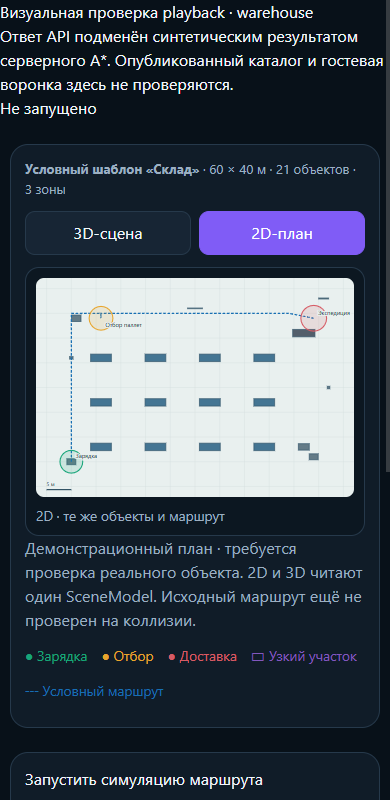
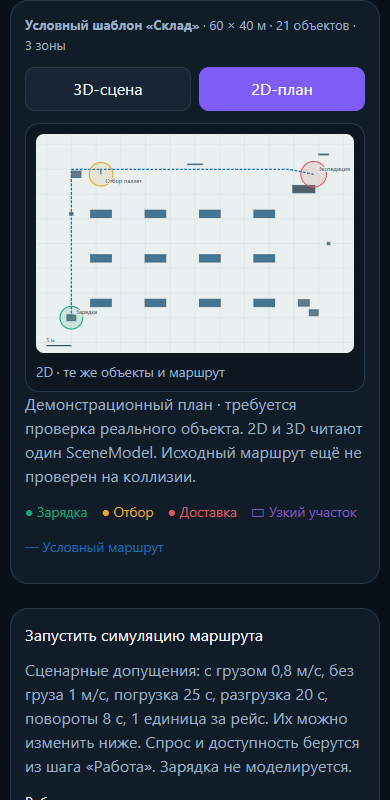
Verify mobile scene playback and expose camera controls

diff --git a/frontend/src/index.css b/frontend/src/index.css
@@ -1305,7 +1305,7 @@ button:disabled { cursor: not-allowed; }
   .scene-preview-mobile-switch button { flex: 1; }
   .scene-preview-grid[data-mobile-view="2d"] .scene-preview-hero, .scene-preview-grid[data-mobile-view="3d"] .scene-preview-plan { display: none; }
   .scene-preview-canvas { height: clamp(290px, 70vw, 420px); min-height: 0; }
-  .scene-preview-camera { overflow-x: auto; flex-wrap: nowrap; }
+  .scene-preview-camera { flex-wrap: wrap; }
   .scene-preview-camera button { white-space: nowrap; }
   .scene-sim-fields { grid-template-columns: repeat(2, minmax(0, 1fr)); }
   .investment-chart-row { grid-template-columns: 1.4rem minmax(0, 1fr) minmax(4rem, 6rem); }

diff --git a/docs/recovery-v2/capture_mobile.py b/docs/recovery-v2/capture_mobile.py
@@ -9,8 +9,10 @@ import requests
 import websocket
 
 OUT = Path(__file__).resolve().parent / 'evidence'
-page = next(item for item in requests.get('http://127.0.0.1:9225/json/list', timeout=5).json()
-            if item.get('type') == 'page')
+pages = requests.get('http://127.0.0.1:9225/json/list', timeout=5).json()
+page = next((item for item in pages if item.get('type') == 'page'
+             and '/qa/recovery/index.html' in item.get('url', '')),
+            next(item for item in pages if item.get('type') == 'page'))
 ws = websocket.create_connection(page['webSocketDebuggerUrl'], timeout=20, suppress_origin=True)
 index = 0
 
@@ -68,10 +70,29 @@ try:
         call('Page.navigate', {'url': 'http://127.0.0.1:4175/qa/recovery/index.html?kind=warehouse'})
         ready("document.querySelector('[data-glb-status]')?.dataset.glbStatus==='READY'", 'scene preview')
         no_page_overflow(f'scene {width}')
+        evaluate("document.querySelector('.scene-preview')?.scrollIntoView({block:'start'})")
+        time.sleep(.2)
         save(f'mobile-{width}-scene-3d.png')
         evaluate("document.querySelector('.scene-preview-mobile-switch button:last-child').click()")
         ready("document.querySelector('.scene-preview-grid')?.dataset.mobileView==='2d'", 'scene 2D switch')
         save(f'mobile-{width}-scene-2d.png')
+        evaluate("document.querySelector('.scene-sim-controls button[type=submit]').click()")
+        ready("Boolean(document.querySelector('.scene-playback-controls'))", 'scene playback')
+        start_pose = evaluate("document.querySelector('#recovery-pose')?.textContent")
+        time.sleep(1)
+        end_pose = evaluate("document.querySelector('#recovery-pose')?.textContent")
+        if not start_pose or start_pose == end_pose:
+            raise RuntimeError(f'scene playback {width}: robot did not move')
+        no_page_overflow(f'scene playback {width}')
+        save(f'mobile-{width}-scene-playback.png')
+        evaluate("document.querySelector('.scene-playback-controls')?.scrollIntoView({block:'center'})")
+        time.sleep(.2)
+        save(f'mobile-{width}-scene-controls.png')
+        evaluate("document.querySelector('.scene-playback-controls button').click()")
+        paused_pose = evaluate("document.querySelector('#recovery-pose')?.textContent")
+        time.sleep(.4)
+        if evaluate("document.querySelector('#recovery-pose')?.textContent") != paused_pose:
+            raise RuntimeError(f'scene playback {width}: pause did not hold pose')
         call('Page.navigate', {'url': 'http://127.0.0.1:4175/'})
         ready("Boolean(document.querySelector('#root h1'))", 'main application')
         no_page_overflow(f'main {width}')

diff --git a/docs/recovery-v2/PROGRESS.md b/docs/recovery-v2/PROGRESS.md
@@ -11,7 +11,7 @@
 | R4 | PARTIAL — ART QUALITY | 13 GLB подключены к живому WebGL; тени движутся с роботами. Добавлен крупный ракурс с сопровождением робота. Blender дополнил склад четырьмя воротами и доковым оборудованием, аэропорт четырьмя багажными порталами, лентами и навигацией, клинику дверями кабинетов, поручнями, шкафами и светильниками. `capture_visual.py` теперь снимает 1440×900 со сценой в кадре: движение и пауза всех трёх сцен PASS. GLB tests 3/3 и frontend build PASS. | `evidence/sim-{warehouse,airport,clinic}-after-4s.png` сравнены с тремя JPG из `03_ART_REFERENCES/targets/`. Архитектурная узнаваемость улучшилась, но геометрия, поверхности, свет и компоновка ещё значительно уступают фотореалистичным референсам. Нужны UV/PBR фактуры и проверка FPS. R4 не закрыт. |
 | R5 | PARTIAL — SIX-CHAPTER MOTION CUT | Пересобран 36-секундный немой ролик из 360 последовательных браузерных кадров обновлённых живых сцен: склад 3D/2D, аэропорт 3D/2D, клиника 3D/2D. В каждом из шести фрагментов робот менял позу 60/60 кадров; 2D-план занимает основную область своей главы. Плеер даёт шесть глав, перемотку, паузу и субтитры. Frontend build, targeted ESLint, SHA manifest и browser smoke 1280×720/36 с с переходом на клинику 3D PASS. | `build_motion_trailer.py`, `smoke_motion_trailer.py`, шесть `frontend/public/demo/trailer/frames/chapter-*.jpg`, `evidence/trailer-player-clinic.png`. Ключевые кадры просмотрены. Capture всё ещё основан на синтетическом ответе API, что явно указано в кадре и manifest; R4 пока ниже художественного референса. Это промежуточный ролик, не финальная production демонстрация. |
 | R6 | PARTIAL | Обложка инвестиционного PDF получила KPI и существенные риски; разделы работ и источников уплотнены без изменения ReportViewModel или формул. Локальные PDF склада, аэропорта и клиники теперь имеют по 6 страниц; 10/10 профильных тестов PASS. | `evidence/pdf-layout-fixture-{warehouse,airport,clinic}.pdf` и contact sheets из браузерного PDF viewer. Это layout fixtures, не production отчёты; согласование финальной композиции, реальные данные/сцены и прочие экранные состояния остаются открыты. |
-| R7 | PARTIAL | Browser smoke на 360/390/768 px: главная, RobCraft, интерактивная 3D/2D сцена без общего горизонтального overflow; мобильная камера расширяет охват сцены. В RobCraft каталог, переключение вида и hotbar получили touch-цели ≥44 px, девять слотов прокручиваются только внутри панели. | `capture_mobile.py`, `evidence/mobile-{360,390,768}-*.png`. Полная пятишаговая воронка, деньги, результат, скачивание PDF и gestures не подтверждены без backend/опубликованного каталога. |
+| R7 | PARTIAL | Повторный browser smoke на 360/390/768 px после R4: главная, RobCraft, интерактивная 3D/2D сцена и запуск симуляции без общего горизонтального overflow. В мобильной 3D-камере все пять кнопок теперь видны в двух строках. На каждом размере проверены изменяющаяся поза робота и удержание позы после паузы; элементы управления симуляцией видимы на 390 px. Frontend build PASS после правки CSS. | `capture_mobile.py`, `evidence/mobile-{360,390,768}-scene-{3d,2d,playback,controls}.png`. Полная пятишаговая воронка, деньги, результат, скачивание PDF и gestures ещё не подтверждены; R7 не закрыт. |
 | R8 | NOT STARTED | — | — |
 
 Визуальный harness: `frontend/qa/recovery/index.html`, `main.jsx`, `paths.json`, `docs/recovery-v2/capture_visual.py`. Его API подмена явно показана на странице и не является приёмкой каталога.
